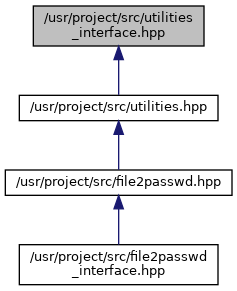
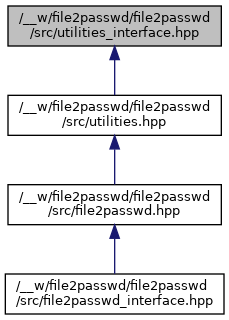
Deploying to gh-pages from  @ ccf168a2e2c218d9fbacb1ea23b4ceb21df62d36 🚀

diff --git a/utilities__interface_8hpp.html b/utilities__interface_8hpp.html
@@ -5,7 +5,7 @@
 <meta http-equiv="X-UA-Compatible" content="IE=9"/>
 <meta name="generator" content="Doxygen 1.8.13"/>
 <meta name="viewport" content="width=device-width, initial-scale=1"/>
-<title>File2Passwd: /usr/project/src/utilities_interface.hpp File Reference</title>
+<title>File2Passwd: /__w/file2passwd/file2passwd/src/utilities_interface.hpp File Reference</title>
 <link href="tabs.css" rel="stylesheet" type="text/css"/>
 <script type="text/javascript" src="jquery.js"></script>
 <script type="text/javascript" src="dynsections.js"></script>
@@ -77,18 +77,18 @@ $(function() {
 </div><div class="textblock"><div class="dynheader">
 Include dependency graph for utilities_interface.hpp:</div>
 <div class="dyncontent">
-<div class="center"><img src="utilities__interface_8hpp__incl.png" border="0" usemap="#_2usr_2project_2src_2utilities__interface_8hpp" alt=""/></div>
-<map name="_2usr_2project_2src_2utilities__interface_8hpp" id="_2usr_2project_2src_2utilities__interface_8hpp">
+<div class="center"><img src="utilities__interface_8hpp__incl.png" border="0" usemap="#_2____w_2file2passwd_2file2passwd_2src_2utilities__interface_8hpp" alt=""/></div>
+<map name="_2____w_2file2passwd_2file2passwd_2src_2utilities__interface_8hpp" id="_2____w_2file2passwd_2file2passwd_2src_2utilities__interface_8hpp">
 </map>
 </div>
 </div><div class="textblock"><div class="dynheader">
 This graph shows which files directly or indirectly include this file:</div>
 <div class="dyncontent">
-<div class="center"><img src="utilities__interface_8hpp__dep__incl.png" border="0" usemap="#_2usr_2project_2src_2utilities__interface_8hppdep" alt=""/></div>
-<map name="_2usr_2project_2src_2utilities__interface_8hppdep" id="_2usr_2project_2src_2utilities__interface_8hppdep">
-<area shape="rect" id="node2" href="utilities_8hpp_source.html" title="/usr/project/src/utilities.hpp" alt="" coords="19,95,218,121"/>
-<area shape="rect" id="node3" href="file2passwd_8hpp_source.html" title="/usr/project/src/file2passwd.hpp" alt="" coords="5,169,232,196"/>
-<area shape="rect" id="node4" href="file2passwd__interface_8hpp_source.html" title="/usr/project/src/file2passwd\l_interface.hpp" alt="" coords="19,244,218,285"/>
+<div class="center"><img src="utilities__interface_8hpp__dep__incl.png" border="0" usemap="#_2____w_2file2passwd_2file2passwd_2src_2utilities__interface_8hppdep" alt=""/></div>
+<map name="_2____w_2file2passwd_2file2passwd_2src_2utilities__interface_8hppdep" id="_2____w_2file2passwd_2file2passwd_2src_2utilities__interface_8hppdep">
+<area shape="rect" id="node2" href="utilities_8hpp_source.html" title="/__w/file2passwd/file2passwd\l/src/utilities.hpp" alt="" coords="8,95,221,136"/>
+<area shape="rect" id="node3" href="file2passwd_8hpp_source.html" title="/__w/file2passwd/file2passwd\l/src/file2passwd.hpp" alt="" coords="8,184,221,225"/>
+<area shape="rect" id="node4" href="file2passwd__interface_8hpp_source.html" title="/__w/file2passwd/file2passwd\l/src/file2passwd_interface.hpp" alt="" coords="5,273,224,315"/>
 </map>
 </div>
 </div>

diff --git a/classfile2passwd_1_1File2PasswdInternal.html b/classfile2passwd_1_1File2PasswdInternal.html
@@ -83,8 +83,8 @@ auto&#160;</td><td class="memItemRight" valign="bottom"><b>get_passwd</b> (void)
 <tr class="separator:ac59686b094228e406a505363d88f0397"><td class="memSeparator" colspan="2">&#160;</td></tr>
 </table>
 <hr/>The documentation for this class was generated from the following files:<ul>
-<li>/usr/project/src/<a class="el" href="file2passwd_8hpp_source.html">file2passwd.hpp</a></li>
-<li>/usr/project/src/file2passwd.cpp</li>
+<li>/__w/file2passwd/file2passwd/src/<a class="el" href="file2passwd_8hpp_source.html">file2passwd.hpp</a></li>
+<li>/__w/file2passwd/file2passwd/src/file2passwd.cpp</li>
 </ul>
 </div><!-- contents -->
 <!-- start footer part -->

diff --git a/classopenssl_1_1OpenSSL.html b/classopenssl_1_1OpenSSL.html
@@ -96,8 +96,8 @@ auto&#160;</td><td class="memItemRight" valign="bottom"><b>encrypt</b> (std::str
 <tr class="separator:a3a381dac907d876ab8f2b5ee3aa83802"><td class="memSeparator" colspan="2">&#160;</td></tr>
 </table>
 <hr/>The documentation for this class was generated from the following files:<ul>
-<li>/usr/project/src/<a class="el" href="openssl_8hpp_source.html">openssl.hpp</a></li>
-<li>/usr/project/src/openssl.cpp</li>
+<li>/__w/file2passwd/file2passwd/src/<a class="el" href="openssl_8hpp_source.html">openssl.hpp</a></li>
+<li>/__w/file2passwd/file2passwd/src/openssl.cpp</li>
 </ul>
 </div><!-- contents -->
 <!-- start footer part -->

diff --git a/classopenssl_1_1OpenSSLInterface.html b/classopenssl_1_1OpenSSLInterface.html
@@ -88,7 +88,7 @@ virtual auto&#160;</td><td class="memItemRight" valign="bottom"><b>encrypt</b> (
 <tr class="separator:a494e3a74ea687ec76fe79ec8155745b0"><td class="memSeparator" colspan="2">&#160;</td></tr>
 </table>
 <hr/>The documentation for this class was generated from the following file:<ul>
-<li>/usr/project/src/<a class="el" href="openssl__interface_8hpp_source.html">openssl_interface.hpp</a></li>
+<li>/__w/file2passwd/file2passwd/src/<a class="el" href="openssl__interface_8hpp_source.html">openssl_interface.hpp</a></li>
 </ul>
 </div><!-- contents -->
 <!-- start footer part -->

diff --git a/classfile2passwd_1_1File2Passwd.html b/classfile2passwd_1_1File2Passwd.html
@@ -131,8 +131,8 @@ std::string passwd = fpo.get_passwd(); </p>
 </div>
 </div>
 <hr/>The documentation for this class was generated from the following files:<ul>
-<li>/usr/project/src/<a class="el" href="file2passwd__interface_8hpp_source.html">file2passwd_interface.hpp</a></li>
-<li>/usr/project/src/file2passwd_interface.cpp</li>
+<li>/__w/file2passwd/file2passwd/src/<a class="el" href="file2passwd__interface_8hpp_source.html">file2passwd_interface.hpp</a></li>
+<li>/__w/file2passwd/file2passwd/src/file2passwd_interface.cpp</li>
 </ul>
 </div><!-- contents -->
 <!-- start footer part -->

diff --git a/classfilereader_1_1FileReader.html b/classfilereader_1_1FileReader.html
@@ -155,8 +155,8 @@ static constexpr int&#160;</td><td class="memItemRight" valign="bottom"><b>MAXIM
 </div>
 </div>
 <hr/>The documentation for this class was generated from the following files:<ul>
-<li>/usr/project/src/<a class="el" href="file__reader_8hpp_source.html">file_reader.hpp</a></li>
-<li>/usr/project/src/file_reader.cpp</li>
+<li>/__w/file2passwd/file2passwd/src/<a class="el" href="file__reader_8hpp_source.html">file_reader.hpp</a></li>
+<li>/__w/file2passwd/file2passwd/src/file_reader.cpp</li>
 </ul>
 </div><!-- contents -->
 <!-- start footer part -->

diff --git a/structFileDoesNotExistException.html b/structFileDoesNotExistException.html
@@ -87,7 +87,7 @@ const char *&#160;</td><td class="memItemRight" valign="bottom"><b>what</b> () c
 <tr class="separator:aa3af87f531895025e5e205c963e3246b"><td class="memSeparator" colspan="2">&#160;</td></tr>
 </table>
 <hr/>The documentation for this struct was generated from the following file:<ul>
-<li>/usr/project/src/<a class="el" href="exception_8hpp_source.html">exception.hpp</a></li>
+<li>/__w/file2passwd/file2passwd/src/<a class="el" href="exception_8hpp_source.html">exception.hpp</a></li>
 </ul>
 </div><!-- contents -->
 <!-- start footer part -->

diff --git a/structFileIsEmpty.html b/structFileIsEmpty.html
@@ -87,7 +87,7 @@ const char *&#160;</td><td class="memItemRight" valign="bottom"><b>what</b> () c
 <tr class="separator:af36ee12977ea948a29b72a5a00fb06b1"><td class="memSeparator" colspan="2">&#160;</td></tr>
 </table>
 <hr/>The documentation for this struct was generated from the following file:<ul>
-<li>/usr/project/src/<a class="el" href="exception_8hpp_source.html">exception.hpp</a></li>
+<li>/__w/file2passwd/file2passwd/src/<a class="el" href="exception_8hpp_source.html">exception.hpp</a></li>
 </ul>
 </div><!-- contents -->
 <!-- start footer part -->

diff --git a/structOpenSSLException.html b/structOpenSSLException.html
@@ -87,7 +87,7 @@ const char *&#160;</td><td class="memItemRight" valign="bottom"><b>what</b> () c
 <tr class="separator:ad4109a04d14aecccd1b1979e33b1bd26"><td class="memSeparator" colspan="2">&#160;</td></tr>
 </table>
 <hr/>The documentation for this struct was generated from the following file:<ul>
-<li>/usr/project/src/<a class="el" href="exception_8hpp_source.html">exception.hpp</a></li>
+<li>/__w/file2passwd/file2passwd/src/<a class="el" href="exception_8hpp_source.html">exception.hpp</a></li>
 </ul>
 </div><!-- contents -->
 <!-- start footer part -->

diff --git a/classutilities_1_1Utilities.html b/classutilities_1_1Utilities.html
@@ -163,8 +163,8 @@ static constexpr int&#160;</td><td class="memItemRight" valign="bottom"><a class
 </div>
 </div>
 <hr/>The documentation for this class was generated from the following files:<ul>
-<li>/usr/project/src/<a class="el" href="utilities_8hpp_source.html">utilities.hpp</a></li>
-<li>/usr/project/src/utilities.cpp</li>
+<li>/__w/file2passwd/file2passwd/src/<a class="el" href="utilities_8hpp_source.html">utilities.hpp</a></li>
+<li>/__w/file2passwd/file2passwd/src/utilities.cpp</li>
 </ul>
 </div><!-- contents -->
 <!-- start footer part -->

diff --git a/file2passwd__interface_8hpp_source.html b/file2passwd__interface_8hpp_source.html
@@ -5,7 +5,7 @@
 <meta http-equiv="X-UA-Compatible" content="IE=9"/>
 <meta name="generator" content="Doxygen 1.8.13"/>
 <meta name="viewport" content="width=device-width, initial-scale=1"/>
-<title>File2Passwd: /usr/project/src/file2passwd_interface.hpp Source File</title>
+<title>File2Passwd: /__w/file2passwd/file2passwd/src/file2passwd_interface.hpp Source File</title>
 <link href="tabs.css" rel="stylesheet" type="text/css"/>
 <script type="text/javascript" src="jquery.js"></script>
 <script type="text/javascript" src="dynsections.js"></script>

diff --git a/file__reader__interface_8hpp_source.html b/file__reader__interface_8hpp_source.html
@@ -5,7 +5,7 @@
 <meta http-equiv="X-UA-Compatible" content="IE=9"/>
 <meta name="generator" content="Doxygen 1.8.13"/>
 <meta name="viewport" content="width=device-width, initial-scale=1"/>
-<title>File2Passwd: /usr/project/src/file_reader_interface.hpp Source File</title>
+<title>File2Passwd: /__w/file2passwd/file2passwd/src/file_reader_interface.hpp Source File</title>
 <link href="tabs.css" rel="stylesheet" type="text/css"/>
 <script type="text/javascript" src="jquery.js"></script>
 <script type="text/javascript" src="dynsections.js"></script>
